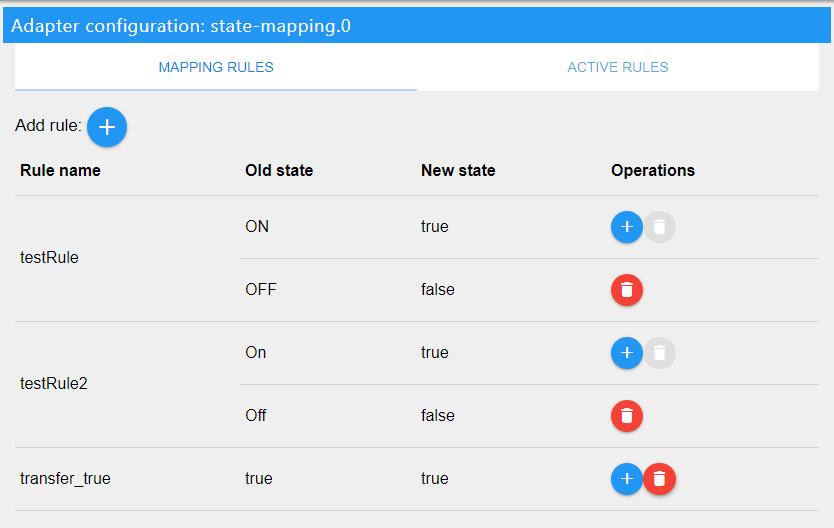
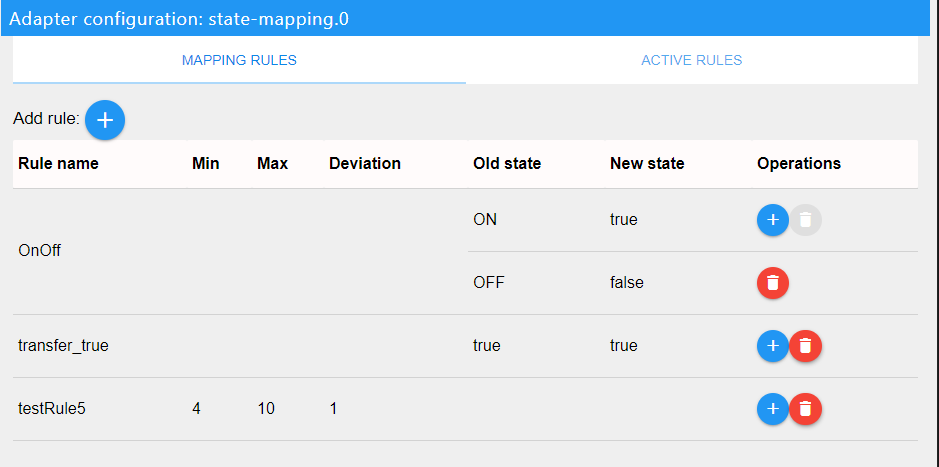
Change readme

diff --git a/README.md b/README.md
@@ -21,6 +21,11 @@ Click, Add rule. Each rule may have multiple mappings, use blue plus in Operatio
 
 ## Active rules
 On Active rules page you can see all objects with rules, add new object, edit and delete it.
+Min - if value is lower than it, new value will be ignored
+Max - if value is grater than it, new value will be ignored
+Deviation - if value differ from old value more than it, new value will be ignored
+Old state - state before mapping
+New state - state after mapping, it will be passed to destination object
 
 # Configure your objects
 Click settings on your object and check enable. In rule field you can enter name of mapping rule, that you created before. If value is number, you can set correction. For example, if you set -1, your value will be decrease by 1 each state update.
